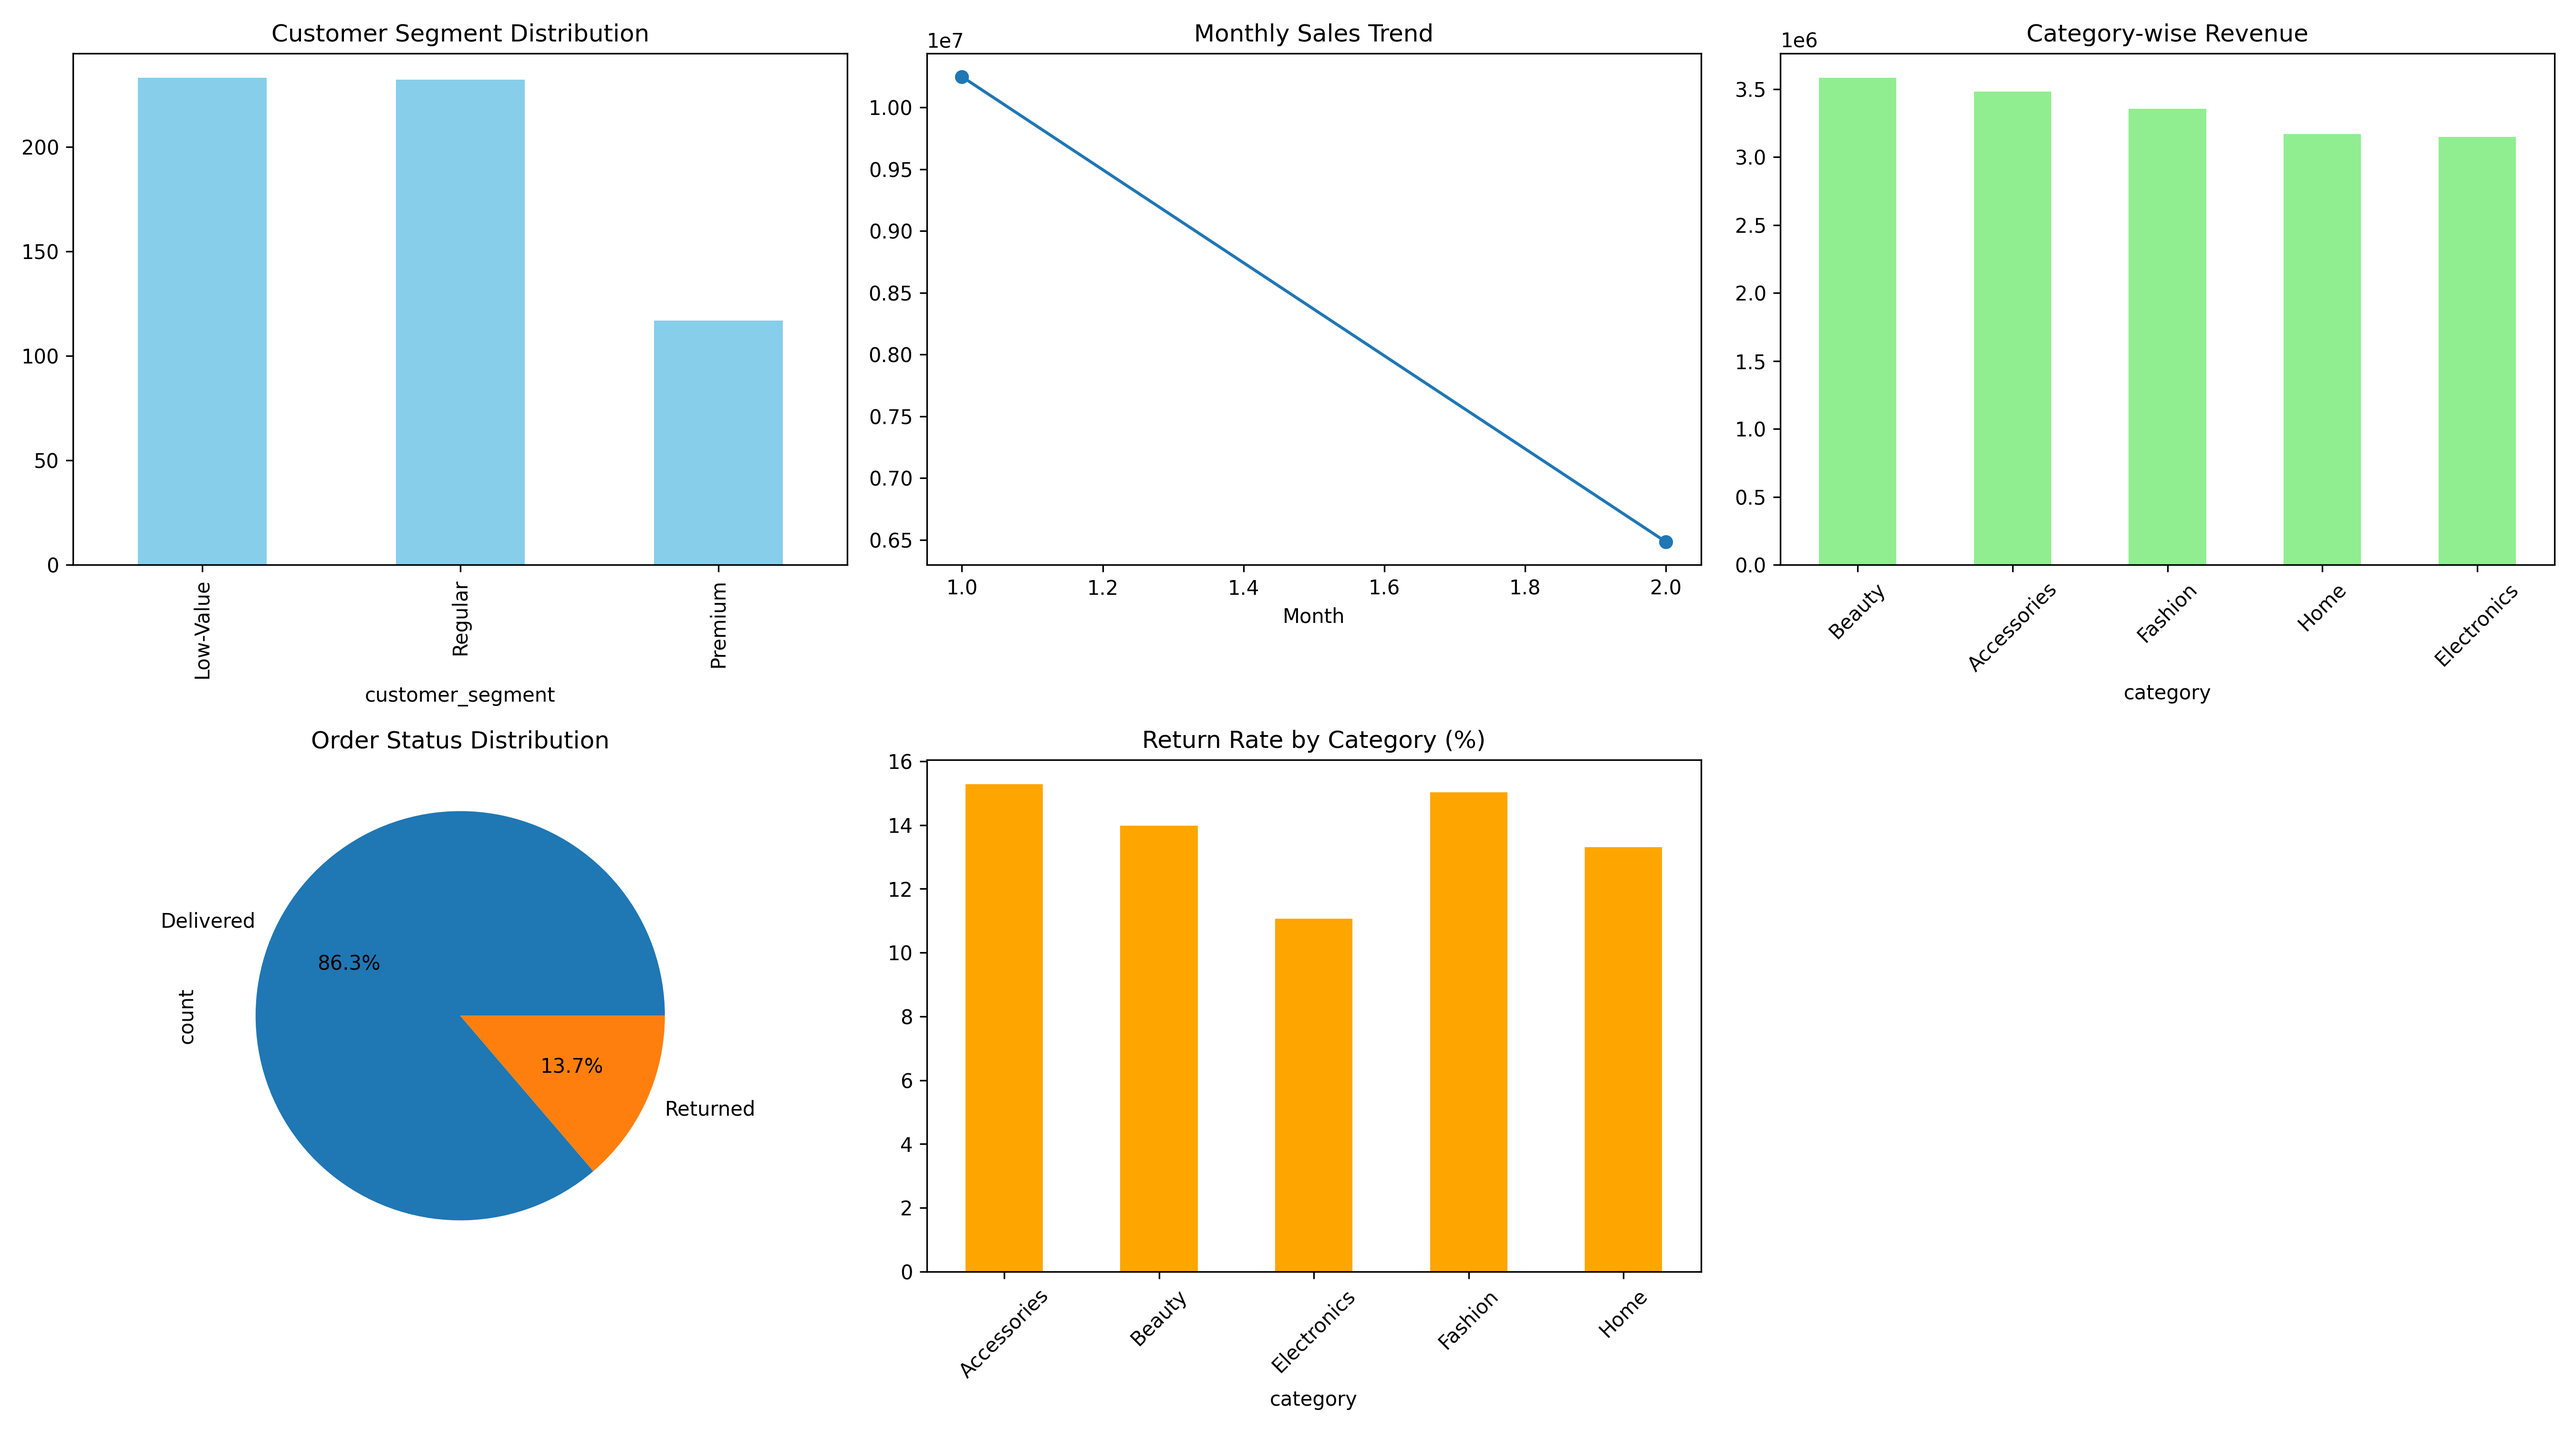
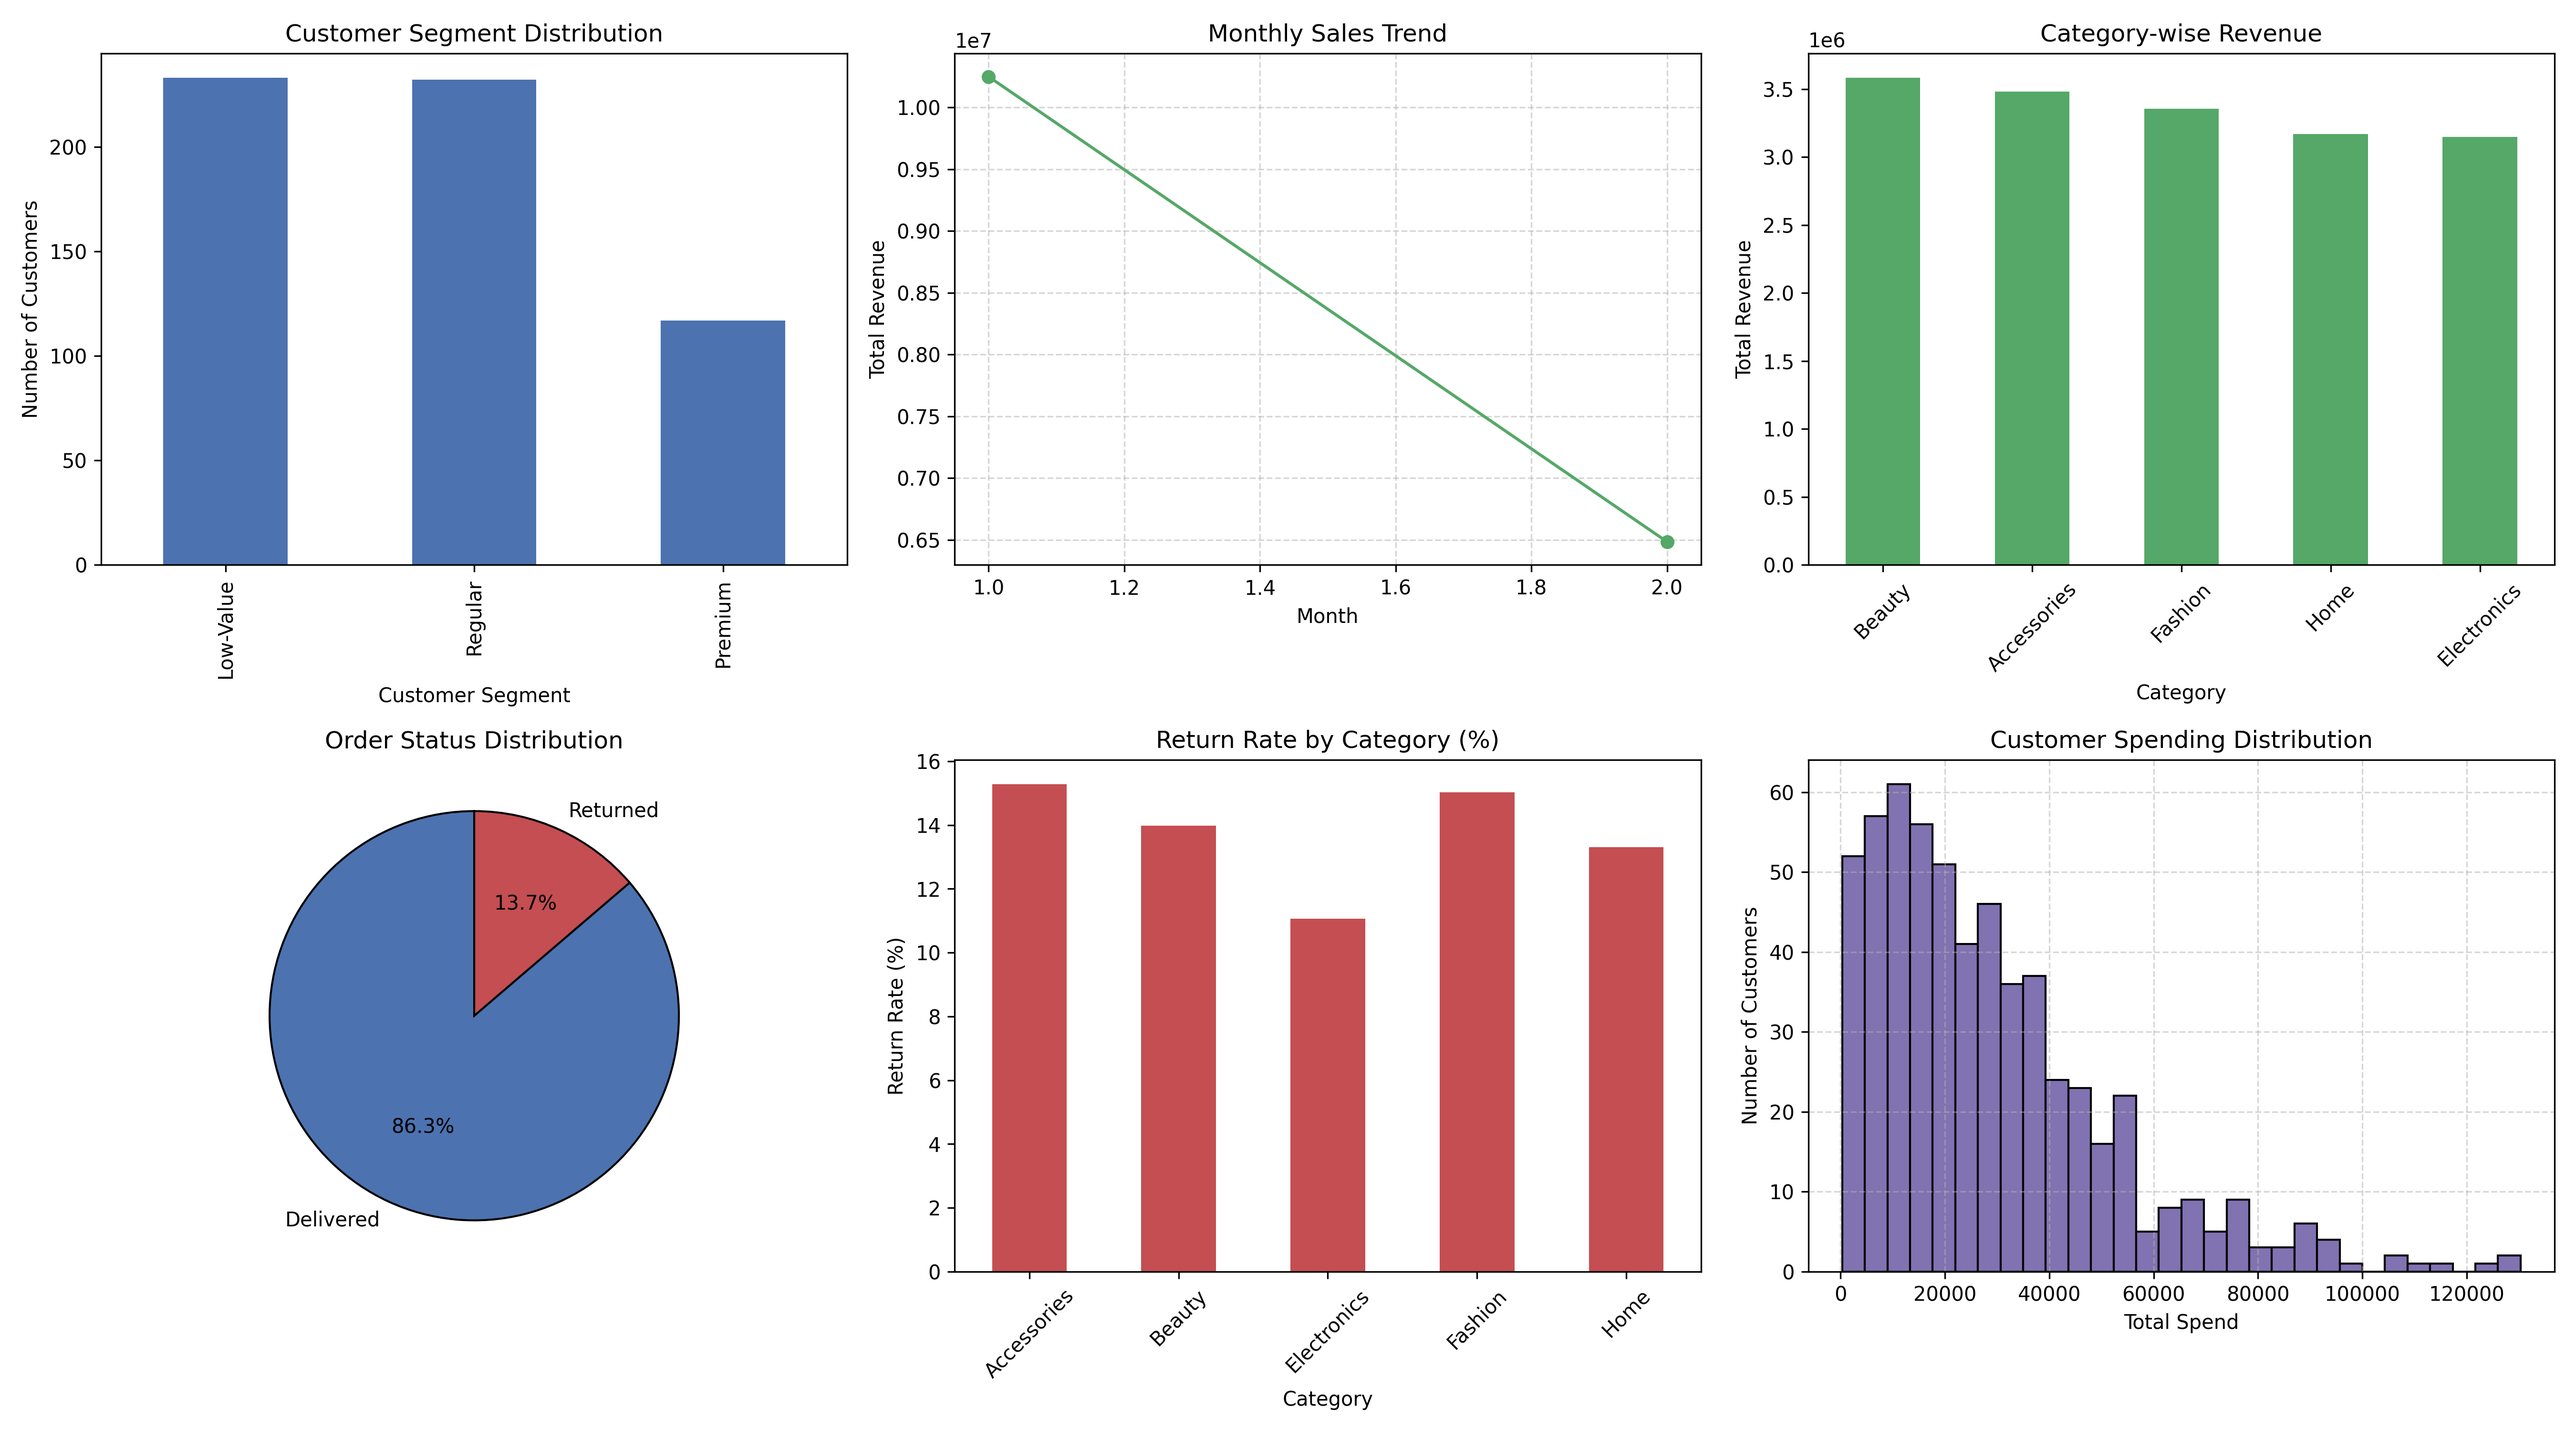
Improved dashboard visuals

diff --git a/src/visualization.py b/src/visualization.py
@@ -5,35 +5,69 @@ def create_dashboard(df, customer_metrics, category_revenue, monthly_sales, disc
 
     plt.figure(figsize=(18, 10))
 
+    # 🎨 Color palette
+    colors = {
+        "blue": "#4C72B0",
+        "green": "#55A868",
+        "red": "#C44E52",
+        "purple": "#8172B2",
+        "orange": "#CCB974"
+    }
+
+    # Customer Segment Distribution
     plt.subplot(2, 3, 1)
-    customer_metrics['customer_segment'].value_counts().plot(kind='bar', color='skyblue')
+    customer_metrics['customer_segment'].value_counts() \
+        .plot(kind='bar', color=colors["blue"])
     plt.title("Customer Segment Distribution")
+    plt.xlabel("Customer Segment")
+    plt.ylabel("Number of Customers")
 
+    # Monthly Sales Trend
     plt.subplot(2, 3, 2)
-    monthly_sales.plot(marker='o')
+    monthly_sales.plot(marker='o', color=colors["green"])
     plt.title("Monthly Sales Trend")
+    plt.xlabel("Month")
+    plt.ylabel("Total Revenue")
+    plt.grid(True, linestyle='--', alpha=0.5)
 
+    # Category-wise Revenue
     plt.subplot(2, 3, 3)
-    category_revenue.plot(kind='bar', color='lightgreen')
+    category_revenue.plot(kind='bar', color=colors["green"])
     plt.title("Category-wise Revenue")
+    plt.xlabel("Category")
+    plt.ylabel("Total Revenue")
     plt.xticks(rotation=45)
 
+    # Order Status Distribution (Improved Pie)
     plt.subplot(2, 3, 4)
-    df['order_status'].value_counts().plot(kind='pie', autopct='%1.1f%%')
+    df['order_status'].value_counts().plot(
+        kind='pie',
+        autopct='%1.1f%%',
+        colors=[colors["blue"], colors["red"]],
+        startangle=90,
+        wedgeprops={'edgecolor': 'black'}
+    )
     plt.title("Order Status Distribution")
+    plt.ylabel("")  # remove default label
+    
 
+    # Return Rate by Category
     plt.subplot(2, 3, 5)
-    discount_return.plot(kind='bar', color='orange')
+    discount_return.plot(kind='bar', color=colors["red"])
     plt.title("Return Rate by Category (%)")
+    plt.xlabel("Category")
+    plt.ylabel("Return Rate (%)")
     plt.xticks(rotation=45)
 
+    # Customer Spending Distribution (Histogram)
     plt.subplot(2, 3, 6)
-    plt.hist(customer_metrics['total_spent'], bins=30, color='#4C72B0', edgecolor='black')
+    plt.hist(customer_metrics['total_spent'], bins=30,color=colors["purple"], edgecolor='black')
     plt.title("Customer Spending Distribution")
     plt.xlabel("Total Spend")
     plt.ylabel("Number of Customers")
     plt.grid(True, linestyle='--', alpha=0.5)
 
+    # Layout
     plt.tight_layout()
     plt.savefig("shoppulse_customer_analytics.png", dpi=300)
     plt.show()
